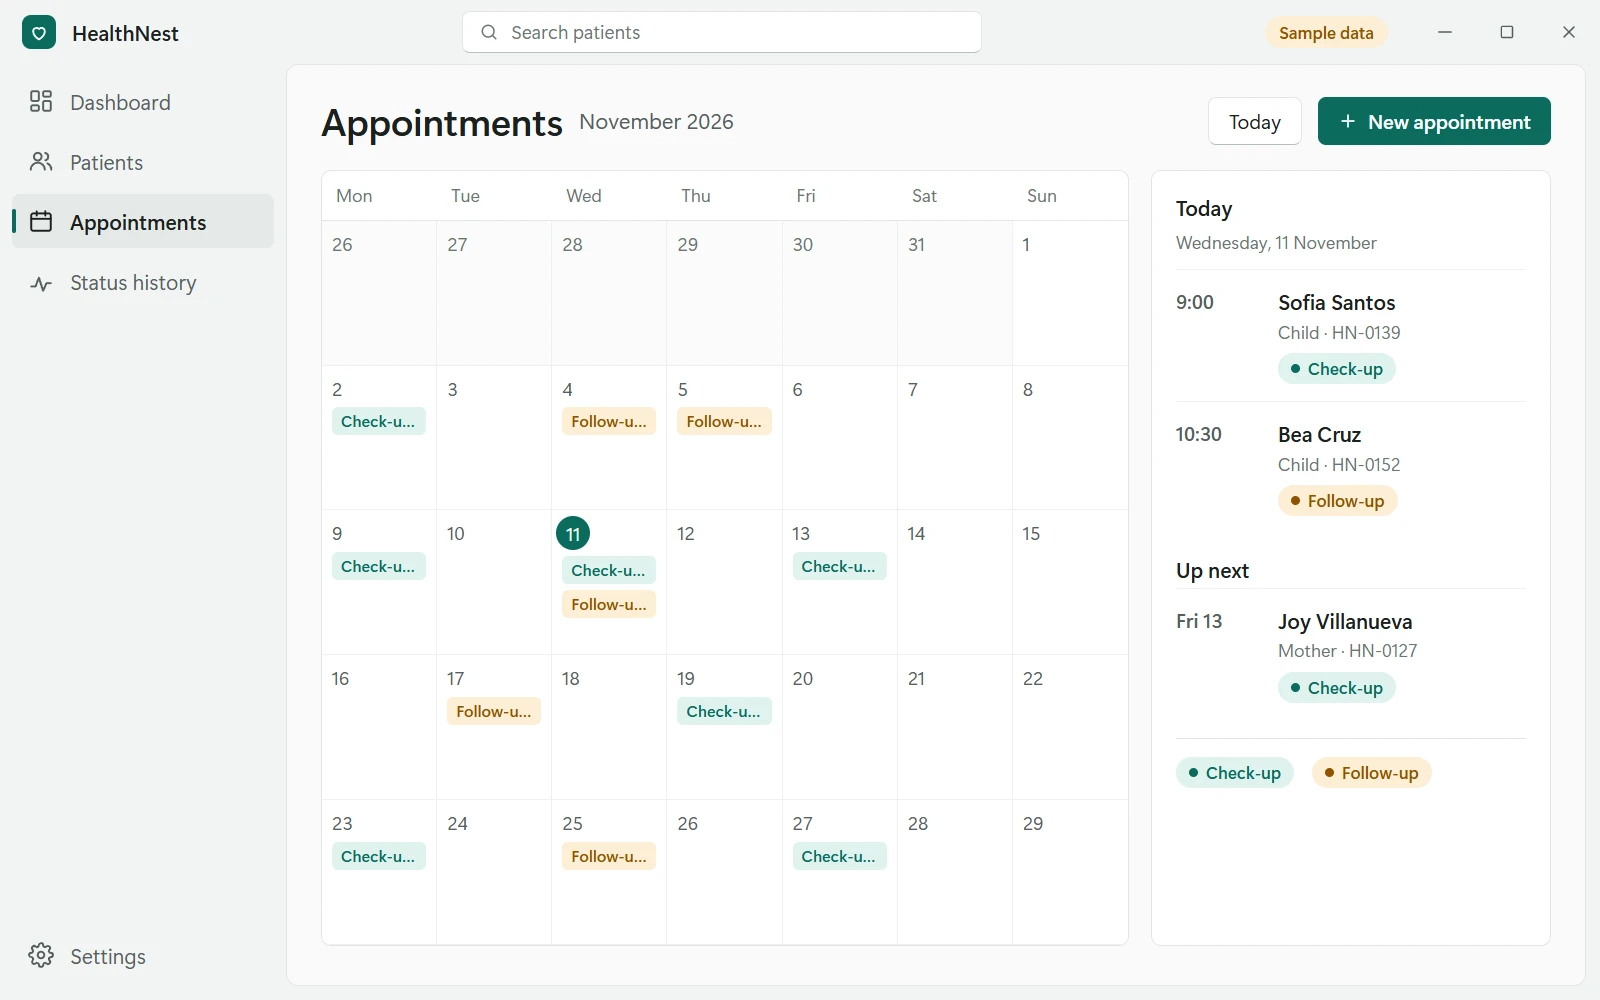
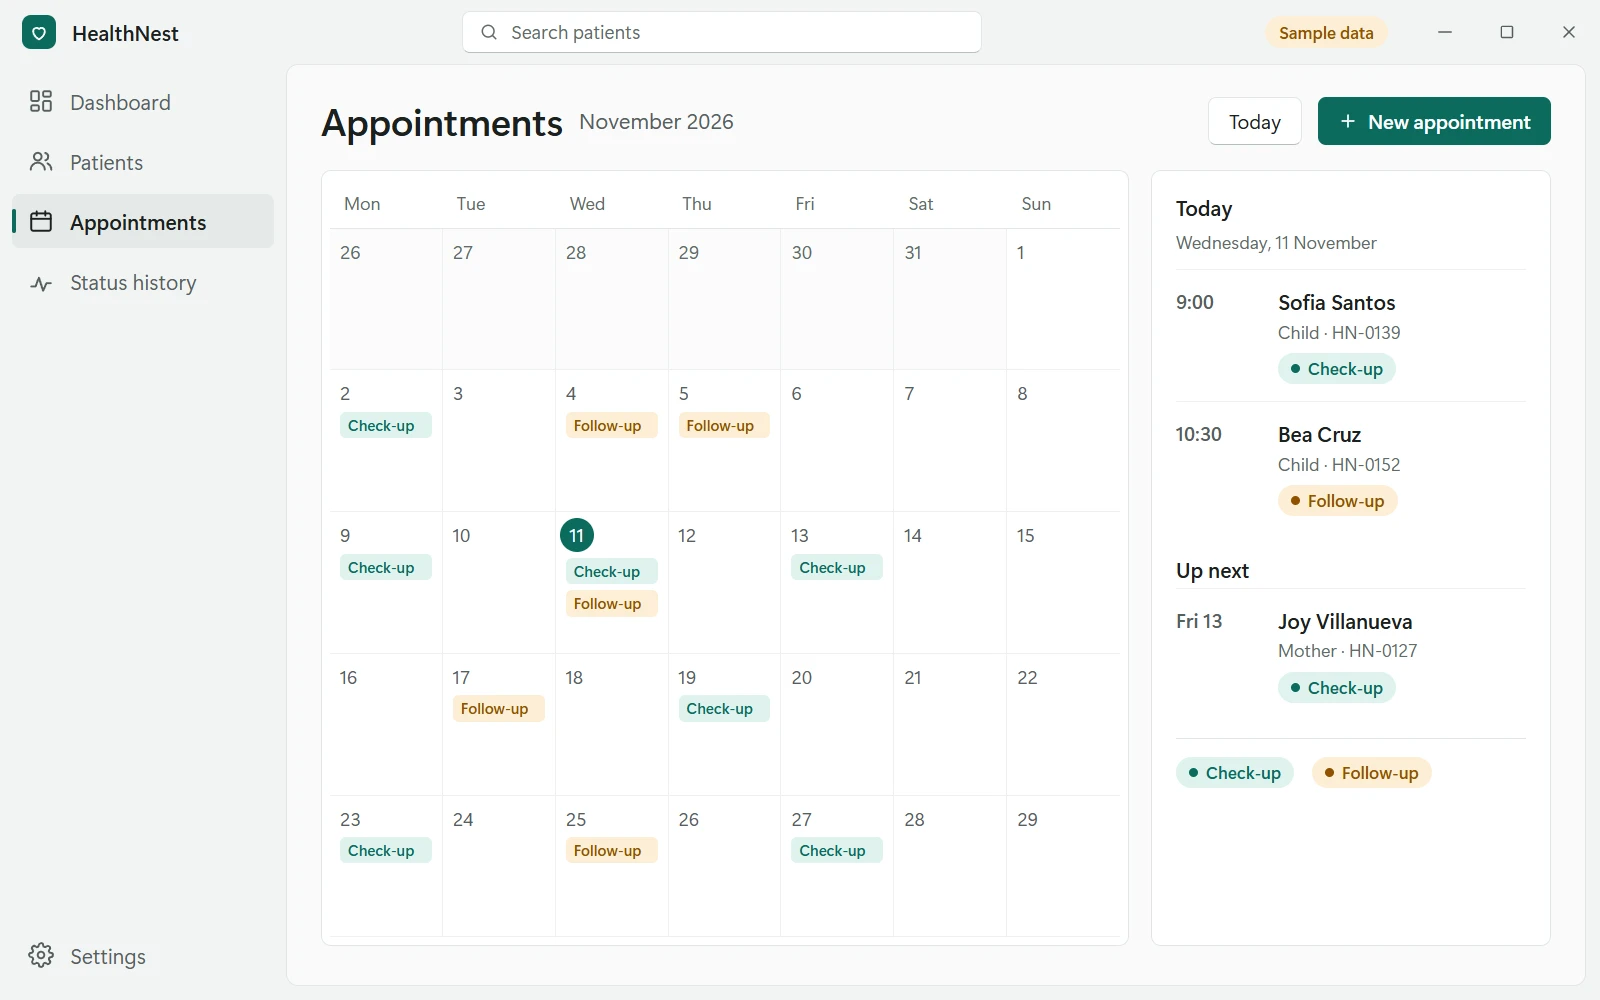
Give the HealthNest illustration room to breathe
The list, the calendar and the table sit inside their cards instead of touching the edges, the selected patient is marked with a short pill like a Windows list, the calendar shows all seven days with labels that fit, and the small gray text is a shade darker. The three pictures are rendered again from screens.html.

diff --git a/img/healthnest/screens.html b/img/healthnest/screens.html
@@ -13,7 +13,7 @@
   -->
   <style>
     * { box-sizing: border-box; margin: 0; padding: 0; }
-    :root { --accent: #0a6b5c; --accent-soft: #dff3ee; --ink: #1b1f1e; --ink-2: #55605d; --ink-3: #6b7572; --line: #e3e6e5; --paper: #ffffff; --mica: #f1f4f3; --amber: #8f5200; --amber-soft: #fdeed6; --blue: #2460c9; --blue-soft: #e3ecfb; }
+    :root { --accent: #0a6b5c; --accent-soft: #dff3ee; --ink: #1b1f1e; --ink-2: #55605d; --ink-3: #616b68; --line: #e3e6e5; --paper: #ffffff; --mica: #f1f4f3; --amber: #8f5200; --amber-soft: #fdeed6; --blue: #2460c9; --blue-soft: #e3ecfb; }
     html, body { width: 1600px; height: 1000px; overflow: hidden; }
     body { display: grid; grid-template-rows: 64px 1fr; background: var(--mica); color: var(--ink); font: 400 22px/1.35 "Segoe UI Variable Display", "Segoe UI", system-ui, sans-serif; }
     svg { width: 26px; height: 26px; fill: none; stroke: currentColor; stroke-width: 1.8; stroke-linecap: round; stroke-linejoin: round; flex: none; }
@@ -56,12 +56,14 @@
     /* Patient cases */
     #cases:target, #calendar:target, #status:target { display: block; }
     .cases { display: grid; grid-template-columns: 470px 1fr; gap: 22px; height: 776px; }
-    .list { display: flex; flex-direction: column; overflow: hidden; }
-    .tabs { display: flex; gap: 26px; padding: 16px 22px 0; border-bottom: 1px solid var(--line); color: var(--ink-2); font-size: 20px; }
+    .list { display: flex; flex-direction: column; overflow: hidden; padding: 8px; }
+    .tabs { display: flex; gap: 26px; margin-bottom: 6px; padding: 8px 14px 0; border-bottom: 1px solid var(--line); color: var(--ink-2); font-size: 20px; }
     .tabs span { padding-bottom: 13px; }
     .tabs .on { color: var(--ink); font-weight: 600; box-shadow: 0 3px 0 -0px var(--accent) inset, 0 -3px 0 0 var(--accent) inset; box-shadow: inset 0 -3px 0 var(--accent); }
-    .row { display: flex; align-items: center; gap: 16px; padding: 15px 22px; border-bottom: 1px solid #eef0ef; }
-    .row.on { background: #f0f7f5; box-shadow: inset 4px 0 0 var(--accent); }
+    .row { display: flex; align-items: center; gap: 16px; padding: 14px; border-radius: 8px; }
+    .row { position: relative; }
+    .row.on { background: #eaf3f0; }
+    .row.on::before { content: ""; position: absolute; left: 0; top: 24px; bottom: 24px; width: 4px; border-radius: 4px; background: var(--accent); }
     .row div { min-width: 0; flex: 1; }
     .row strong { display: block; font-size: 21px; font-weight: 600; }
     .profile { display: grid; grid-template-rows: auto auto 1fr; gap: 20px; }
@@ -84,16 +86,16 @@
 
     /* Appointments */
     .cal { display: grid; grid-template-columns: minmax(0, 1fr) 400px; gap: 22px; height: 776px; }
-    .month { display: grid; grid-template-rows: auto 1fr; overflow: hidden; }
+    .month { display: grid; grid-template-rows: auto 1fr; overflow: hidden; padding: 8px; }
     .days { display: grid; grid-template-columns: repeat(7, minmax(0, 1fr)); border-bottom: 1px solid var(--line); color: var(--ink-3); font-size: 18px; }
     .days span { padding: 12px 14px; }
     .grid { display: grid; grid-template-columns: repeat(7, minmax(0, 1fr)); grid-auto-rows: 1fr; }
-    .day { padding: 10px 10px 0; border-right: 1px solid #eef0ef; border-bottom: 1px solid #eef0ef; font-size: 19px; color: var(--ink-2); }
+    .day { padding: 10px 10px 8px; border-right: 1px solid #eef0ef; border-bottom: 1px solid #eef0ef; font-size: 19px; color: var(--ink-2); }
     .day:nth-child(7n) { border-right: 0; }
-    .day.out { color: #6b7572; background: #fbfcfc; }
+    .day.out { color: #616b68; background: #fbfcfc; }
     .day.today b { display: inline-grid; place-items: center; width: 34px; height: 34px; margin: -4px 0 0 -6px; border-radius: 50%; background: var(--accent); color: #fff; }
     .day b { font-weight: 400; }
-    .ev { display: block; margin-top: 6px; padding: 3px 9px; border-radius: 6px; font-size: 16px; font-weight: 600; white-space: nowrap; overflow: hidden; text-overflow: ellipsis; }
+    .ev { display: block; margin-top: 6px; padding: 3px 8px; border-radius: 6px; font-size: 15px; font-weight: 600; white-space: nowrap; overflow: hidden; text-overflow: ellipsis; }
     .ev.c { background: var(--accent-soft); color: var(--accent); }
     .ev.f { background: var(--amber-soft); color: var(--amber); }
     .agenda { padding: 22px 24px; }
@@ -111,11 +113,11 @@
     .chart header { display: flex; align-items: center; gap: 16px; margin-bottom: 18px; }
     .chart header p { color: var(--ink-2); }
     .chart svg { display: block; width: 100%; height: 262px; stroke: none; }
-    .chart text { font: 400 17px "Segoe UI Variable Display", "Segoe UI", sans-serif; fill: #6b7572; }
-    .log { overflow: hidden; }
+    .chart text { font: 400 17px "Segoe UI Variable Display", "Segoe UI", sans-serif; fill: #616b68; }
+    .log { overflow: hidden; padding: 8px 10px; }
     .log table { width: 100%; border-collapse: collapse; font-size: 20px; }
-    .log th { padding: 16px 26px; border-bottom: 1px solid var(--line); color: var(--ink-3); font-size: 18px; font-weight: 400; text-align: left; }
-    .log td { padding: 17px 26px; border-bottom: 1px solid #eef0ef; }
+    .log th { padding: 12px 18px; border-bottom: 1px solid var(--line); color: var(--ink-3); font-size: 18px; font-weight: 400; text-align: left; }
+    .log td { padding: 17px 18px; border-bottom: 1px solid #eef0ef; }
     .log td:first-child { color: var(--ink-2); white-space: nowrap; }
     .log .to { display: flex; align-items: center; gap: 12px; }
     .log .to svg { width: 20px; height: 20px; color: var(--ink-3); }
@@ -176,10 +178,10 @@
           <div class="days"><span>Mon</span><span>Tue</span><span>Wed</span><span>Thu</span><span>Fri</span><span>Sat</span><span>Sun</span></div>
           <div class="grid">
             <div class="day out"><b>26</b></div><div class="day out"><b>27</b></div><div class="day out"><b>28</b></div><div class="day out"><b>29</b></div><div class="day out"><b>30</b></div><div class="day out"><b>31</b></div><div class="day"><b>1</b></div>
-            <div class="day"><b>2</b><span class="ev c">Check-up · M. Santos</span></div><div class="day"><b>3</b></div><div class="day"><b>4</b><span class="ev f">Follow-up · M. Reyes</span></div><div class="day"><b>5</b><span class="ev f">Follow-up · A. Reyes</span></div><div class="day"><b>6</b></div><div class="day"><b>7</b></div><div class="day"><b>8</b></div>
-            <div class="day"><b>9</b><span class="ev c">Check-up · L. Cruz</span></div><div class="day"><b>10</b></div><div class="day today"><b>11</b><span class="ev c">Check-up · S. Santos</span><span class="ev f">Follow-up · B. Cruz</span></div><div class="day"><b>12</b></div><div class="day"><b>13</b><span class="ev c">Check-up · J. Villanueva</span></div><div class="day"><b>14</b></div><div class="day"><b>15</b></div>
-            <div class="day"><b>16</b></div><div class="day"><b>17</b><span class="ev f">Follow-up · M. Santos</span></div><div class="day"><b>18</b></div><div class="day"><b>19</b><span class="ev c">Check-up · A. Reyes</span></div><div class="day"><b>20</b></div><div class="day"><b>21</b></div><div class="day"><b>22</b></div>
-            <div class="day"><b>23</b><span class="ev c">Check-up · M. Reyes</span></div><div class="day"><b>24</b></div><div class="day"><b>25</b><span class="ev f">Follow-up · L. Cruz</span></div><div class="day"><b>26</b></div><div class="day"><b>27</b><span class="ev c">Check-up · B. Cruz</span></div><div class="day"><b>28</b></div><div class="day"><b>29</b></div>
+            <div class="day"><b>2</b><span class="ev c">Check-up</span></div><div class="day"><b>3</b></div><div class="day"><b>4</b><span class="ev f">Follow-up</span></div><div class="day"><b>5</b><span class="ev f">Follow-up</span></div><div class="day"><b>6</b></div><div class="day"><b>7</b></div><div class="day"><b>8</b></div>
+            <div class="day"><b>9</b><span class="ev c">Check-up</span></div><div class="day"><b>10</b></div><div class="day today"><b>11</b><span class="ev c">Check-up</span><span class="ev f">Follow-up</span></div><div class="day"><b>12</b></div><div class="day"><b>13</b><span class="ev c">Check-up</span></div><div class="day"><b>14</b></div><div class="day"><b>15</b></div>
+            <div class="day"><b>16</b></div><div class="day"><b>17</b><span class="ev f">Follow-up</span></div><div class="day"><b>18</b></div><div class="day"><b>19</b><span class="ev c">Check-up</span></div><div class="day"><b>20</b></div><div class="day"><b>21</b></div><div class="day"><b>22</b></div>
+            <div class="day"><b>23</b><span class="ev c">Check-up</span></div><div class="day"><b>24</b></div><div class="day"><b>25</b><span class="ev f">Follow-up</span></div><div class="day"><b>26</b></div><div class="day"><b>27</b><span class="ev c">Check-up</span></div><div class="day"><b>28</b></div><div class="day"><b>29</b></div>
           </div>
         </section>
         <section class="card agenda">
